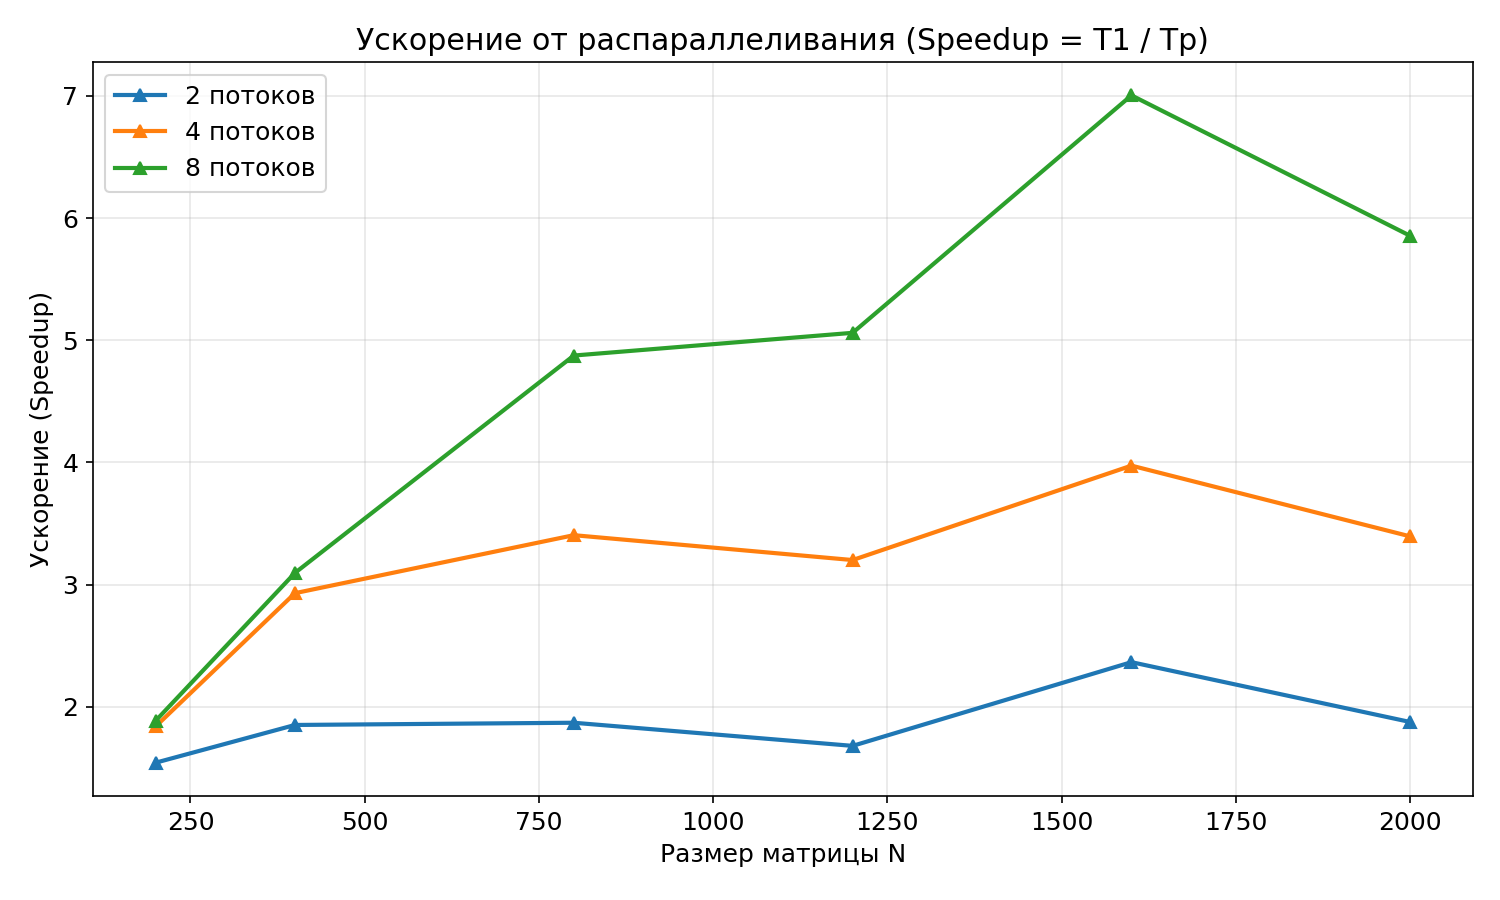
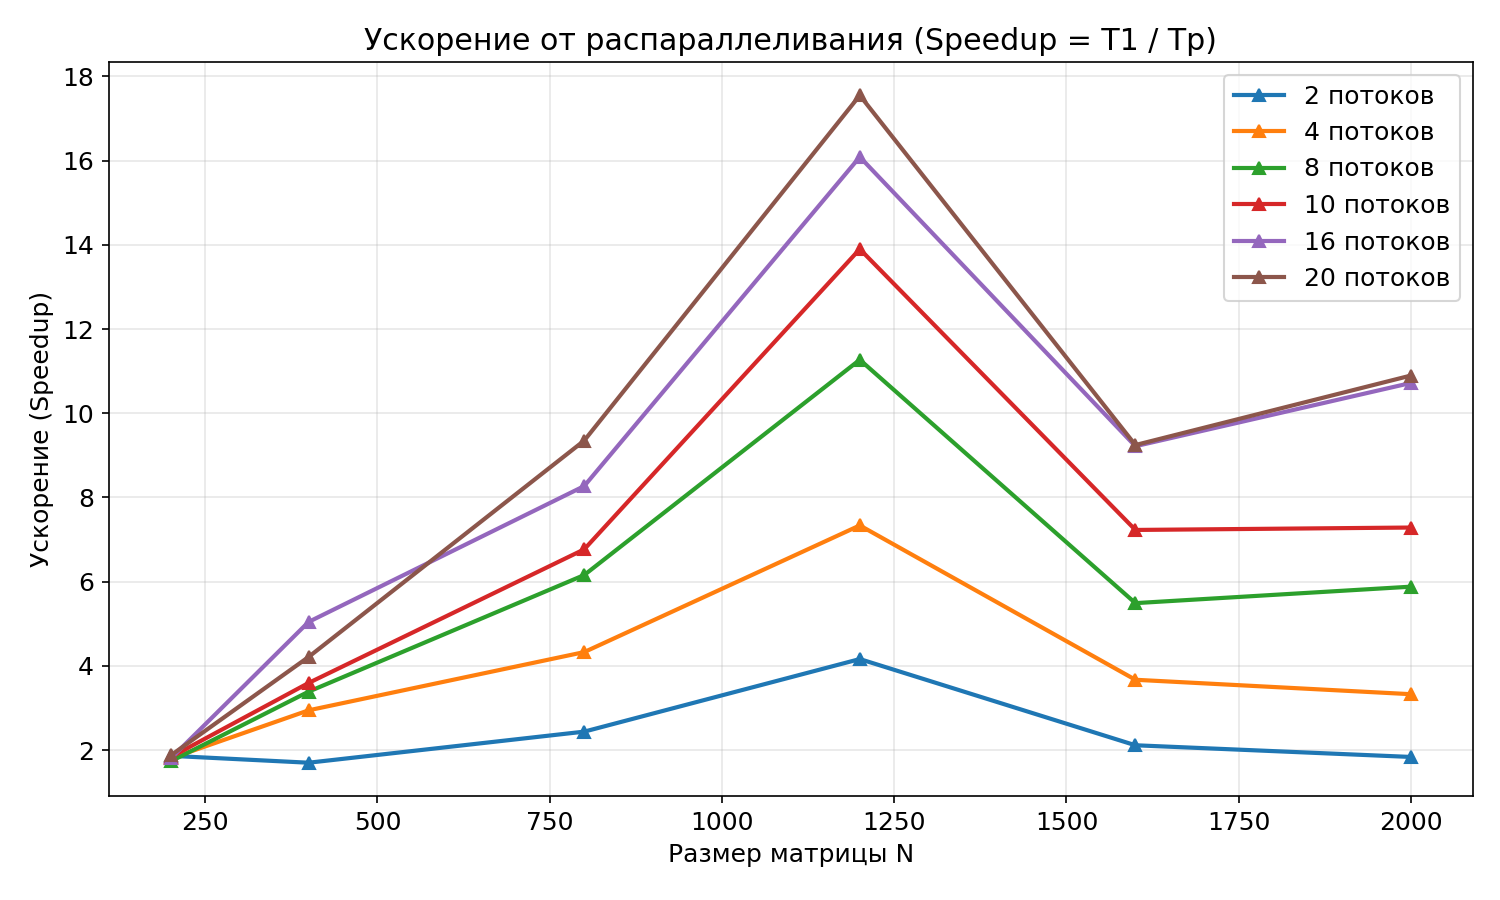
final

diff --git a/README.md b/README.md
@@ -79,42 +79,59 @@ project/
 - **ОС:** Windows 11
 - **Компилятор:** g++ (MinGW-w64), флаги `-O2 -fopenmp`
 - **Тип данных:** `double` (64 бит)
-- **Режим:** Многопоточный (OpenMP), тестирование на 1, 2, 4 и 8 потоках
+- **Режим:** Многопоточный (OpenMP), тестирование на 1,2,4,8,10,16,20 потоках
 
 ### 4.2 Таблица результатов
 
-| Потоки | N | Время (сек) | Объем (GFLOP) | Произв. (GFLOP/s) | Ускорение (T1 / Tp) | Память (МБ) |
+| Потоки | N    | Время (сек) | Объем (GFLOP) | Произв. (GFLOP/s) | Ускорение (T1 / Tp) | Память (МБ) |
 |--------|------|-------------|---------------|--------------------|----------------------|-------------|
-| 1      | 200  | 0.0033      | 0.016         | 4.86               | 1.00x                | 0.92        |
-| 2      | 200  | 0.0021      | 0.016         | 7.50               | 1.54x                | 0.92        |
-| 4      | 200  | 0.0018      | 0.016         | 8.94               | 1.84x                | 0.92        |
-| 8      | 200  | 0.0017      | 0.016         | 9.16               | 1.89x                | 0.92        |
+| 1      | 200  | 0.003662    | 0.016         | 4.3697             | 1.00x                | 0.92        |
+| 2      | 200  | 0.001967    | 0.016         | 8.1355             | 1.86x                | 0.92        |
+| 4      | 200  | 0.002035    | 0.016         | 7.8612             | 1.80x                | 0.92        |
+| 8      | 200  | 0.002117    | 0.016         | 7.5582             | 1.73x                | 0.92        |
+| 10     | 200  | 0.001999    | 0.016         | 8.0040             | 1.83x                | 0.92        |
+| 16     | 200  | 0.002035    | 0.016         | 7.8612             | 1.80x                | 0.92        |
+| 20     | 200  | 0.001956    | 0.016         | 8.1791             | 1.87x                | 0.92        |
 |        |      |             |               |                    |                      |             |
-| 1      | 400  | 0.0205      | 0.128         | 6.24               | 1.00x                | 3.66        |
-| 2      | 400  | 0.0111      | 0.128         | 11.56              | 1.85x                | 3.66        |
-| 4      | 400  | 0.0070      | 0.128         | 18.30              | 2.93x                | 3.66        |
-| 8      | 400  | 0.0066      | 0.128         | 19.33              | 3.10x                | 3.66        |
+| 1      | 400  | 0.020488    | 0.128         | 6.2476             | 1.00x                | 3.66        |
+| 2      | 400  | 0.012066    | 0.128         | 10.6081            | 1.70x                | 3.66        |
+| 4      | 400  | 0.006963    | 0.128         | 18.3818            | 2.94x                | 3.66        |
+| 8      | 400  | 0.006051    | 0.128         | 21.1532            | 3.39x                | 3.66        |
+| 10     | 400  | 0.005703    | 0.128         | 22.4443            | 3.59x                | 3.66        |
+| 16     | 400  | 0.004063    | 0.128         | 31.5030            | 5.04x                | 3.66        |
+| 20     | 400  | 0.004866    | 0.128         | 26.3055            | 4.21x                | 3.66        |
 |        |      |             |               |                    |                      |             |
-| 1      | 800  | 0.1584      | 1.024         | 6.47               | 1.00x                | 14.65       |
-| 2      | 800  | 0.0847      | 1.024         | 12.09              | 1.87x                | 14.65       |
-| 4      | 800  | 0.0465      | 1.024         | 22.02              | 3.40x                | 14.65       |
-| 8      | 800  | 0.0325      | 1.024         | 31.53              | 4.88x                | 14.65       |
+| 1      | 800  | 0.208345    | 1.024         | 4.9149             | 1.00x                | 14.65       |
+| 2      | 800  | 0.085521    | 1.024         | 11.9736            | 2.44x                | 14.65       |
+| 4      | 800  | 0.048166    | 1.024         | 21.2597            | 4.33x                | 14.65       |
+| 8      | 800  | 0.033846    | 1.024         | 30.2543            | 6.16x                | 14.65       |
+| 10     | 800  | 0.030791    | 1.024         | 33.2565            | 6.77x                | 14.65       |
+| 16     | 800  | 0.025195    | 1.024         | 40.6427            | 8.27x                | 14.65       |
+| 20     | 800  | 0.022285    | 1.024         | 45.9510            | 9.35x                | 14.65       |
 |        |      |             |               |                    |                      |             |
-| 1      | 1200 | 0.6375      | 3.456         | 5.42               | 1.00x                | 32.96       |
-| 2      | 1200 | 0.3793      | 3.456         | 9.11               | 1.68x                | 32.96       |
-| 4      | 1200 | 0.1991      | 3.456         | 17.36              | 3.20x                | 32.96       |
-| 8      | 1200 | 0.1260      | 3.456         | 27.44              | 5.06x                | 32.96       |
+| 1      | 1200 | 1.246714    | 3.456         | 2.7721             | 1.00x                | 32.96       |
+| 2      | 1200 | 0.299679    | 3.456         | 11.5324            | 4.16x                | 32.96       |
+| 4      | 1200 | 0.169981    | 3.456         | 20.3316            | 7.33x                | 32.96       |
+| 8      | 1200 | 0.110622    | 3.456         | 31.2416            | 11.27x               | 32.96       |
+| 10     | 1200 | 0.089697    | 3.456         | 38.5299            | 13.90x               | 32.96       |
+| 16     | 1200 | 0.077495    | 3.456         | 44.5963            | 16.09x               | 32.96       |
+| 20     | 1200 | 0.071036    | 3.456         | 48.6512            | 17.55x               | 32.96       |
 |        |      |             |               |                    |                      |             |
-| 1      | 1600 | 2.2988      | 8.192         | 3.56               | 1.00x                | 58.59       |
-| 2      | 1600 | 0.9717      | 8.192         | 8.43               | 2.37x                | 58.59       |
-| 4      | 1600 | 0.5784      | 8.192         | 14.16              | 3.97x                | 58.59       |
-| 8      | 1600 | 0.3282      | 8.192         | 24.96              | 7.00x                | 58.59       |
+| 1      | 1600 | 1.708839    | 8.192         | 4.7939             | 1.00x                | 58.59       |
+| 2      | 1600 | 0.808919    | 8.192         | 10.1271            | 2.11x                | 58.59       |
+| 4      | 1600 | 0.465829    | 8.192         | 17.5858            | 3.67x                | 58.59       |
+| 8      | 1600 | 0.311333    | 8.192         | 26.3127            | 5.49x                | 58.59       |
+| 10     | 1600 | 0.236442    | 8.192         | 34.6470            | 7.23x                | 58.59       |
+| 16     | 1600 | 0.185416    | 8.192         | 44.1818            | 9.22x                | 58.59       |
+| 20     | 1600 | 0.184858    | 8.192         | 44.3150            | 9.24x                | 58.59       |
 |        |      |             |               |                    |                      |             |
-| 1      | 2000 | 4.3656      | 16.000        | 3.67               | 1.00x                | 91.55       |
-| 2      | 2000 | 2.3275      | 16.000        | 6.87               | 1.88x                | 91.55       |
-| 4      | 2000 | 1.2859      | 16.000        | 12.44              | 3.39x                | 91.55       |
-| 8      | 2000 | 0.7457      | 16.000        | 21.46              | 5.85x                | 91.55       |
-
+| 1      | 2000 | 4.176145    | 16.000        | 3.8313             | 1.00x                | 91.55       |
+| 2      | 2000 | 2.276083    | 16.000        | 7.0296             | 1.83x                | 91.55       |
+| 4      | 2000 | 1.255770    | 16.000        | 12.7412            | 3.33x                | 91.55       |
+| 8      | 2000 | 0.710226    | 16.000        | 22.5280            | 5.88x                | 91.55       |
+| 10     | 2000 | 0.573292    | 16.000        | 27.9090            | 7.28x                | 91.55       |
+| 16     | 2000 | 0.389591    | 16.000        | 41.0687            | 10.72x               | 91.55       |
+| 20     | 2000 | 0.383285    | 16.000        | 41.7444            | 10.90x               | 91.55       |
 ### 4.3 Графики
 
 После запуска автоматического скрипта `run_experiments.bat`, в папке `data/` будут сгенерированы следующие сравнительные графики:
